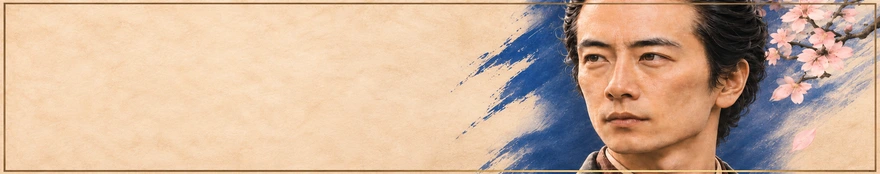
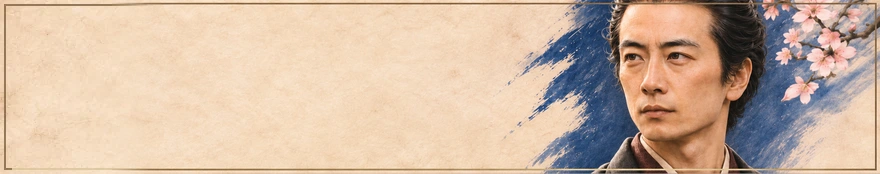
Correct Ito dialogue portrait aspect ratio without distortion

diff --git a/story-mode.js b/story-mode.js
@@ -630,7 +630,7 @@ function person(p){
  if(!p)return{name:"",role:"",img:""};
  const king=p.king;
  if(king==="miyabe")return{name:"宮部鼎蔵",role:"尊攘派志士",img:"assets/dialogue_banners/miyabe_banner.webp?v=miyabe-framing-20261107b"};
- if(king==="ito")return{name:"伊東甲子太郎",role:"御陵衛士・盟主",img:"assets/dialogue_banners/ito_banner.webp?v=ito-approved-20261108"};
+ if(king==="ito")return{name:"伊東甲子太郎",role:"御陵衛士・盟主",img:"assets/dialogue_banners/ito_banner.webp?v=ito-aspect-fixed-20261108"};
  if(king==="kusaka")return{name:"久坂玄瑞",role:"長州藩士",img:"assets/dialogue_banners/person_38.webp?v=face-final-20261107"};
  if(king==="saigo")return{name:"西郷隆盛",role:"新政府軍・薩摩藩",img:"assets/dialogue_banners/person_21.webp?v=face-final-20261107"};
  if(king==="todo")return{name:"藤堂平助",role:"御陵衛士",img:"assets/dialogue_banners/person_08.webp?v=face-final-20261107"};
